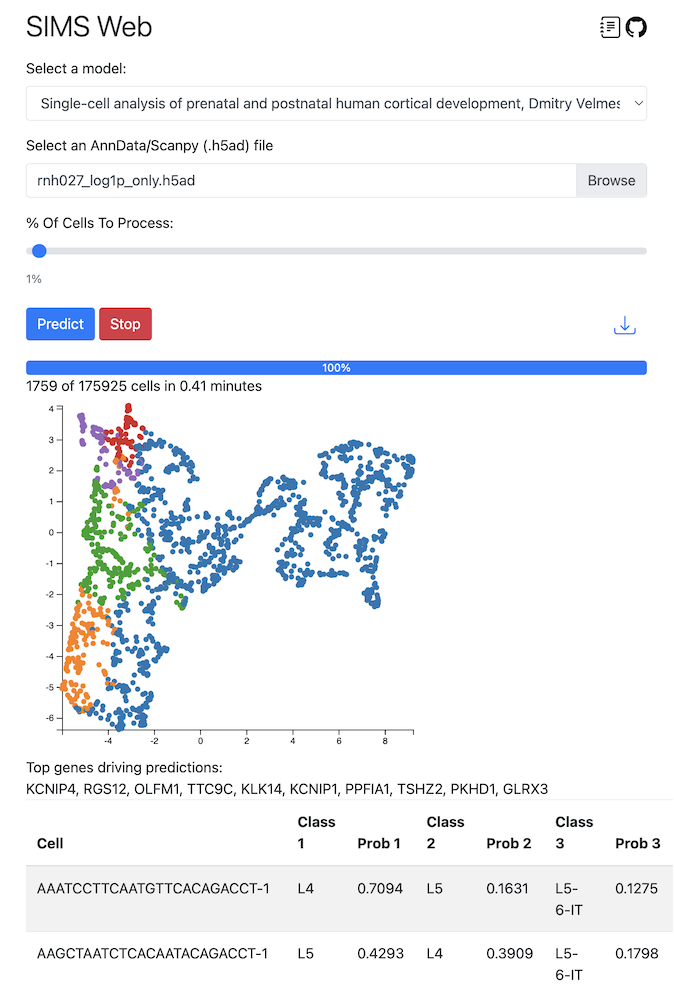
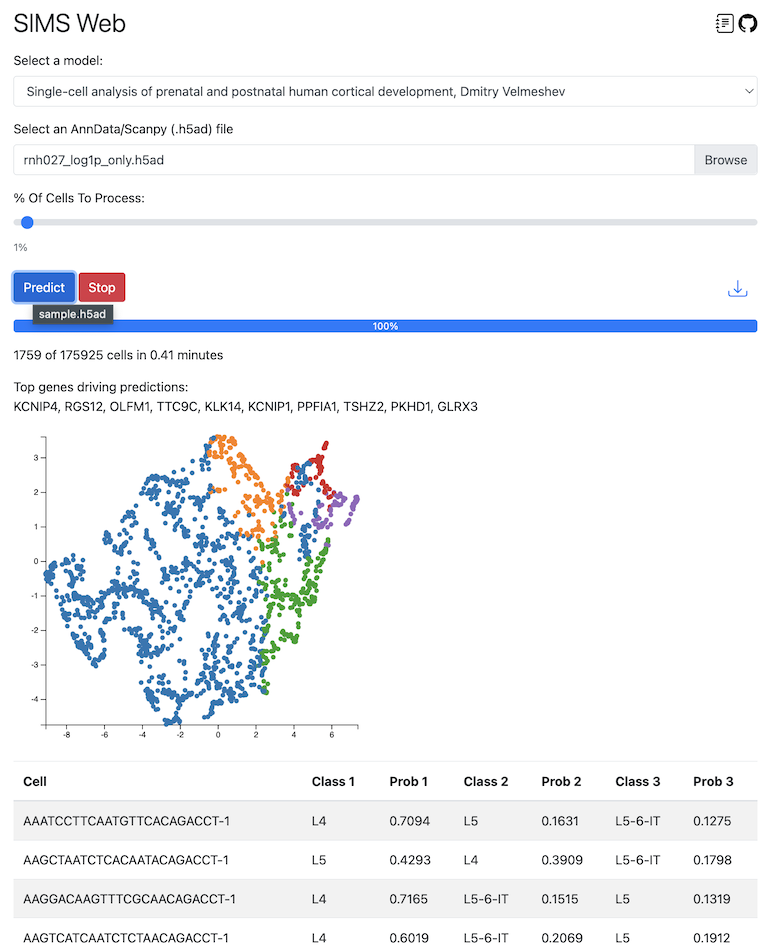
Adjust vertical spacing

diff --git a/index.html b/index.html
@@ -64,10 +64,10 @@
                     <div class="progress-bar" role="progressbar" aria-valuenow="0" aria-valuemin="0" aria-valuemax="100"
                         id="progress-bar"></div>
                 </div>
-                <div id="message"></div>
-                <div id="scatter-plot"></div>
-                <div id="top-genes"></div>
-                <div id="results">
+                <div id="message" class="mb-3 mt-3"></div>
+                <div id="top-genes" class="mb-3 mt-3"></div>
+                <div id="scatter-plot" class="mb-3 mt-3"></div>
+                <div id="results" class="mb-3 mt-3">
                 </div>
             </div>
         </div>
